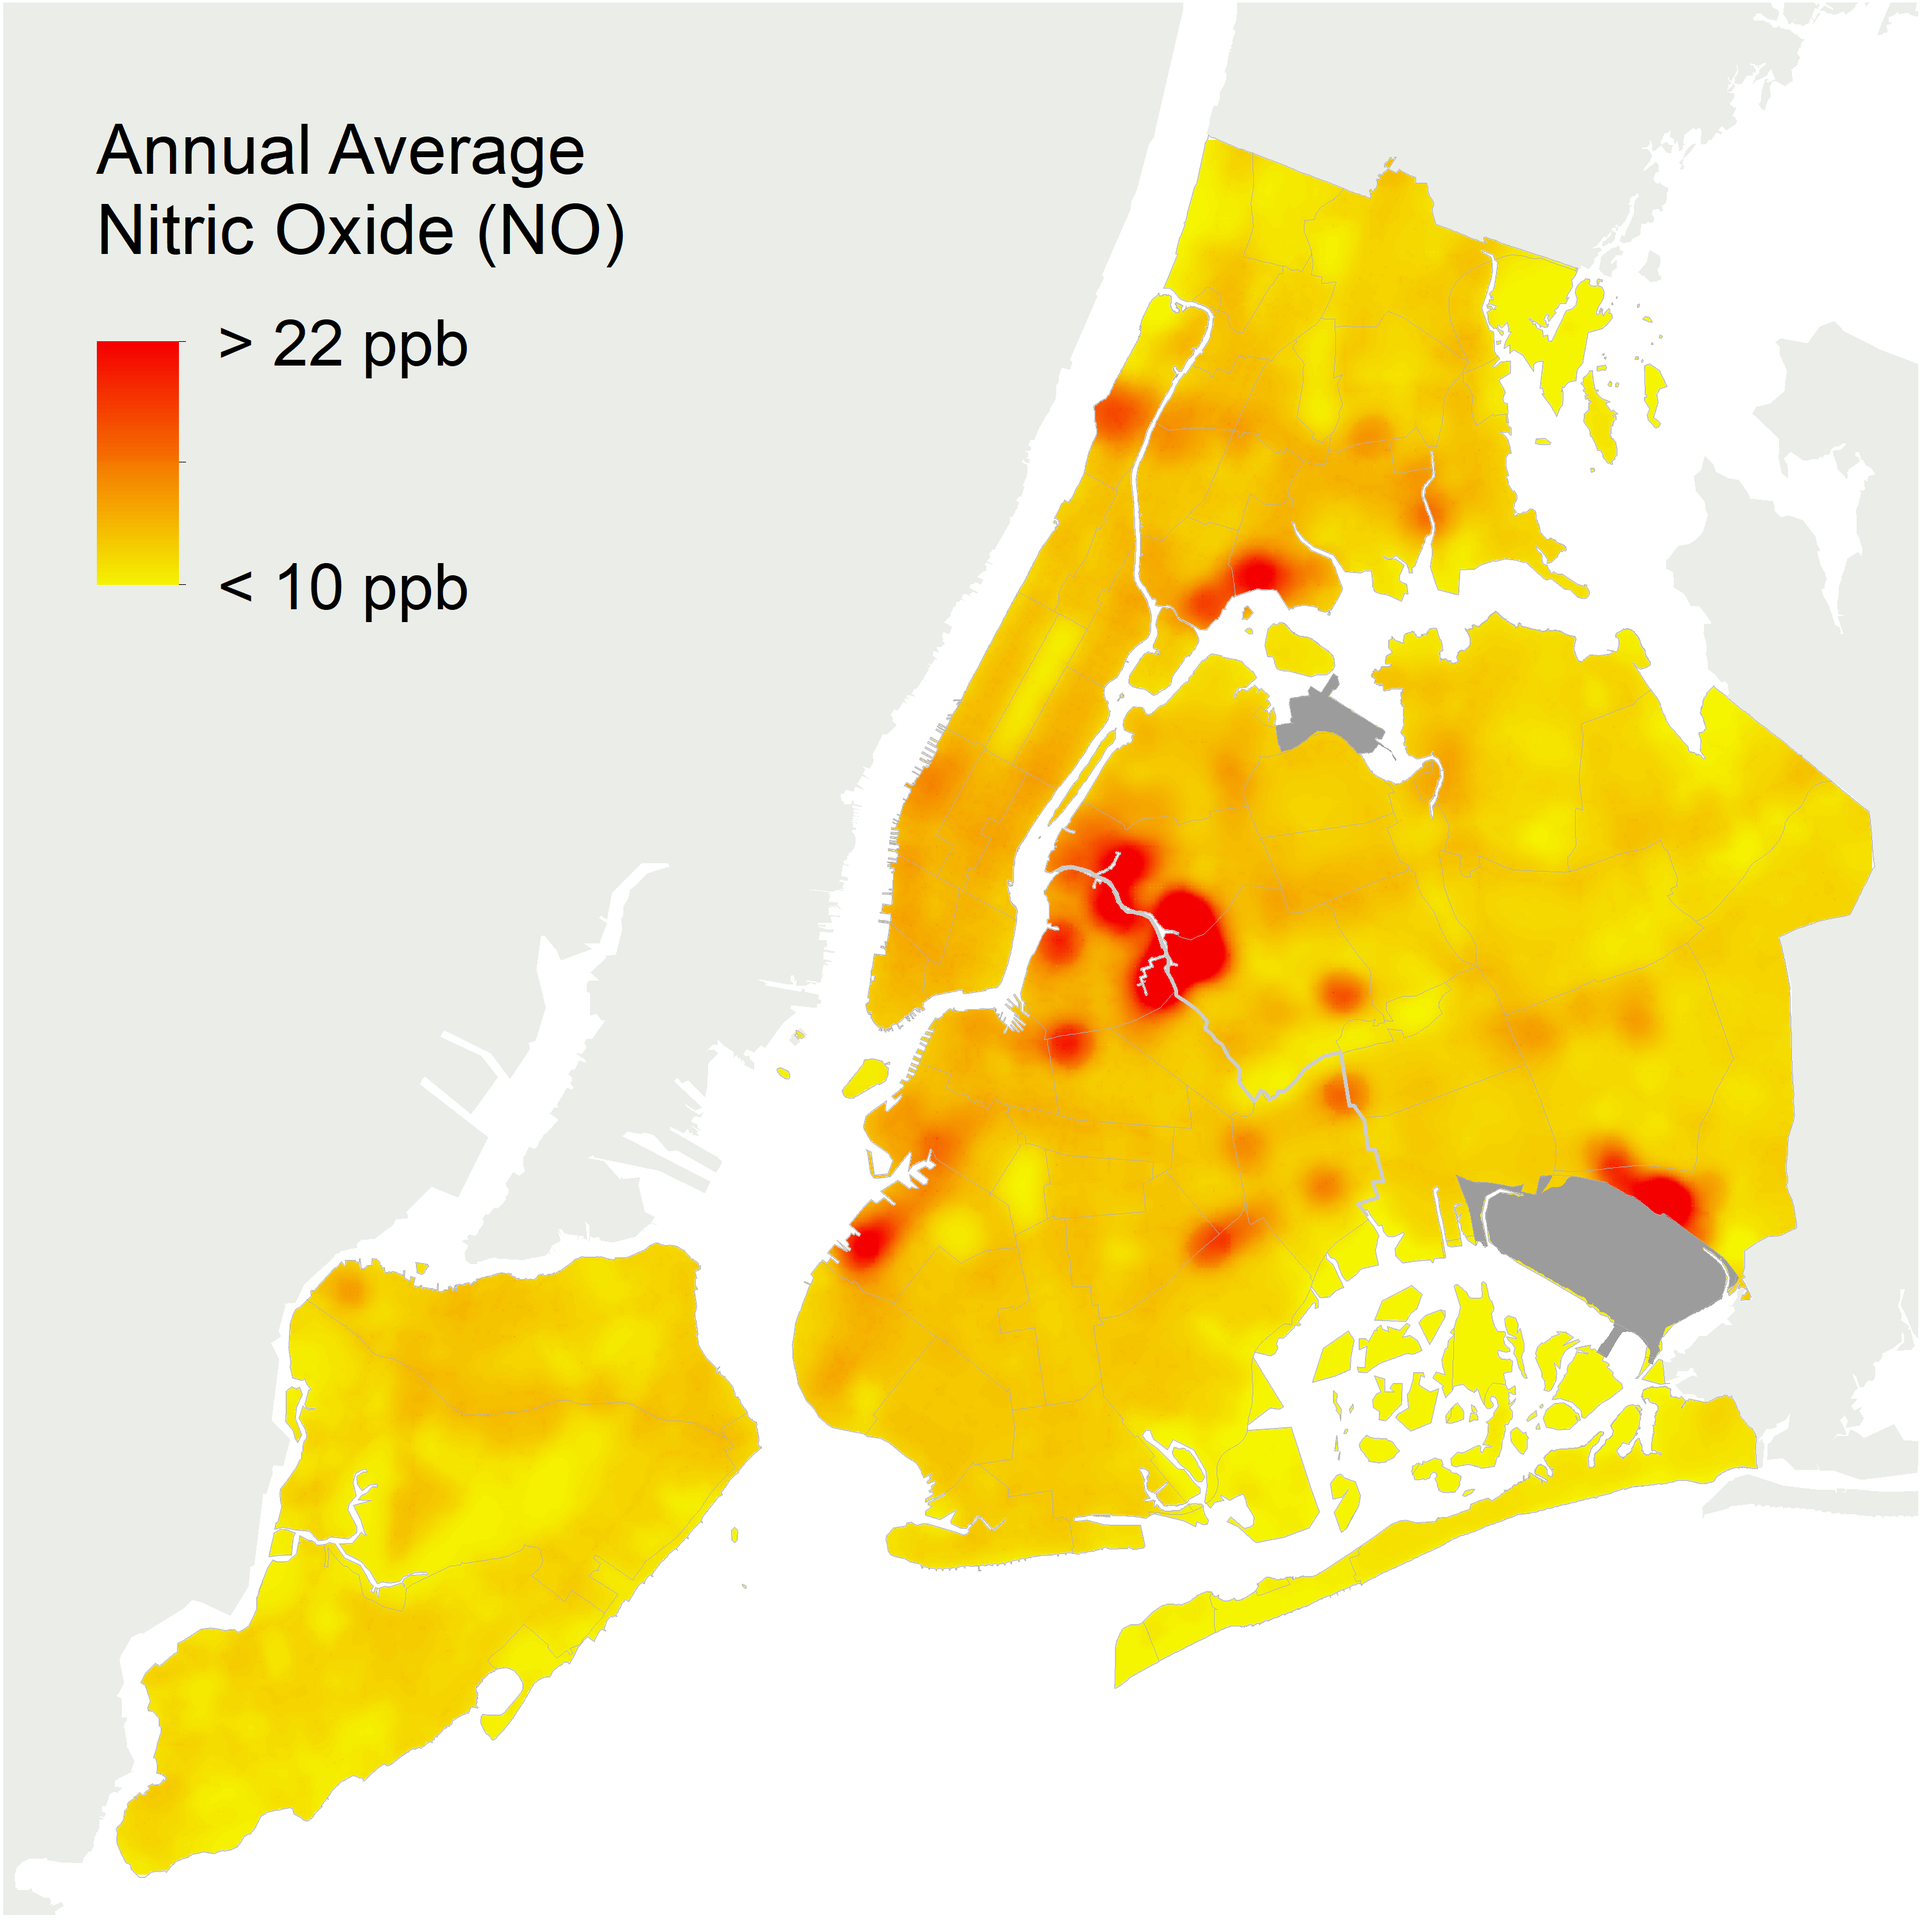
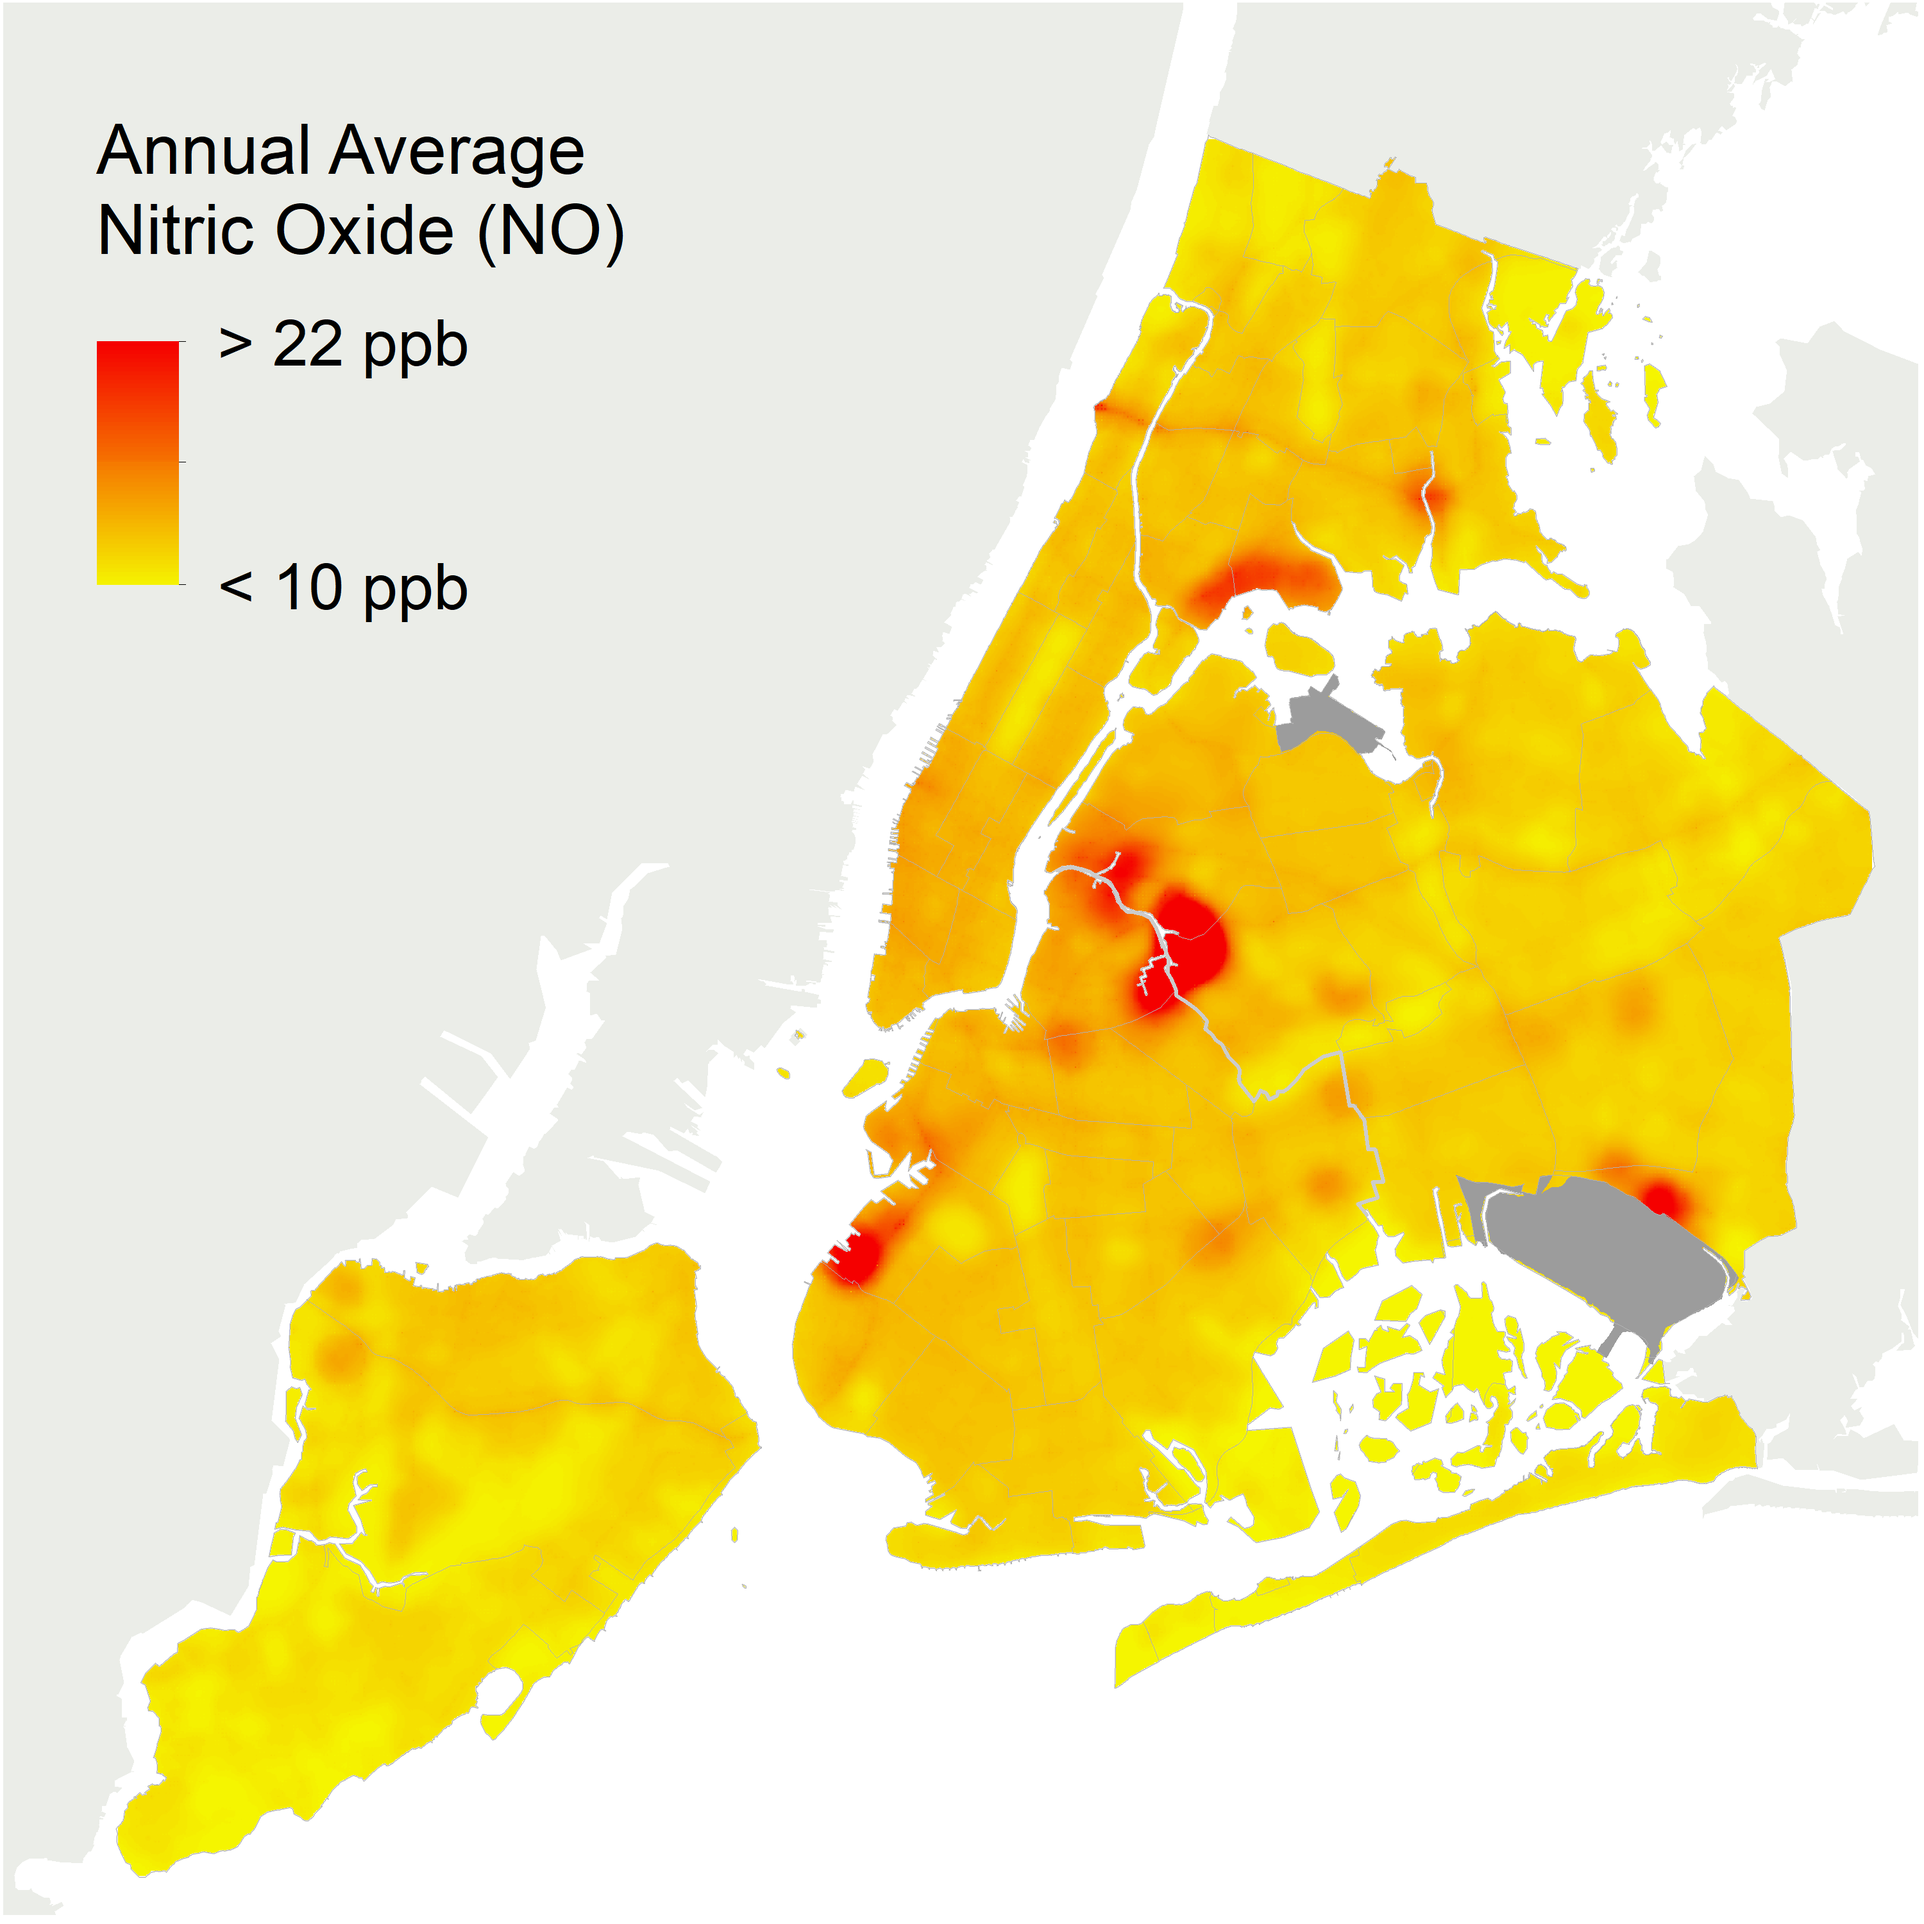
update report with NO_2021, and 2021 default for allyearmap

diff --git a/themes/dohmh/layouts/key-topics/nyccas-report.html b/themes/dohmh/layouts/key-topics/nyccas-report.html
@@ -264,9 +264,9 @@
                 </div>
 
                 <div class="col-sm-3 ml-auto">
-                    <span id="yearPrint" class="pb-2">2020</span>
+                    <span id="yearPrint" class="pb-2">2021</span>
                     <div style="display:inline-block;" class="">
-                        <input type="range" min="2009" max="2020" value="2020" class="mt-0" id="myRange">
+                        <input type="range" min="2009" max="2021" value="2021" class="mt-0" id="myRange">
                     </div>
                 </div>
 
@@ -276,7 +276,7 @@
     
               <div class="row no-gutters">
                 <div class="col-8 mx-auto">
-                  <img id="raster" src="embed/map-images/BC_2020.png" style="width:100%; height: auto;">
+                  <img id="raster" src="embed/map-images/BC_2021.png" style="width:100%; height: auto;">
     
                 </div>
               </div>
